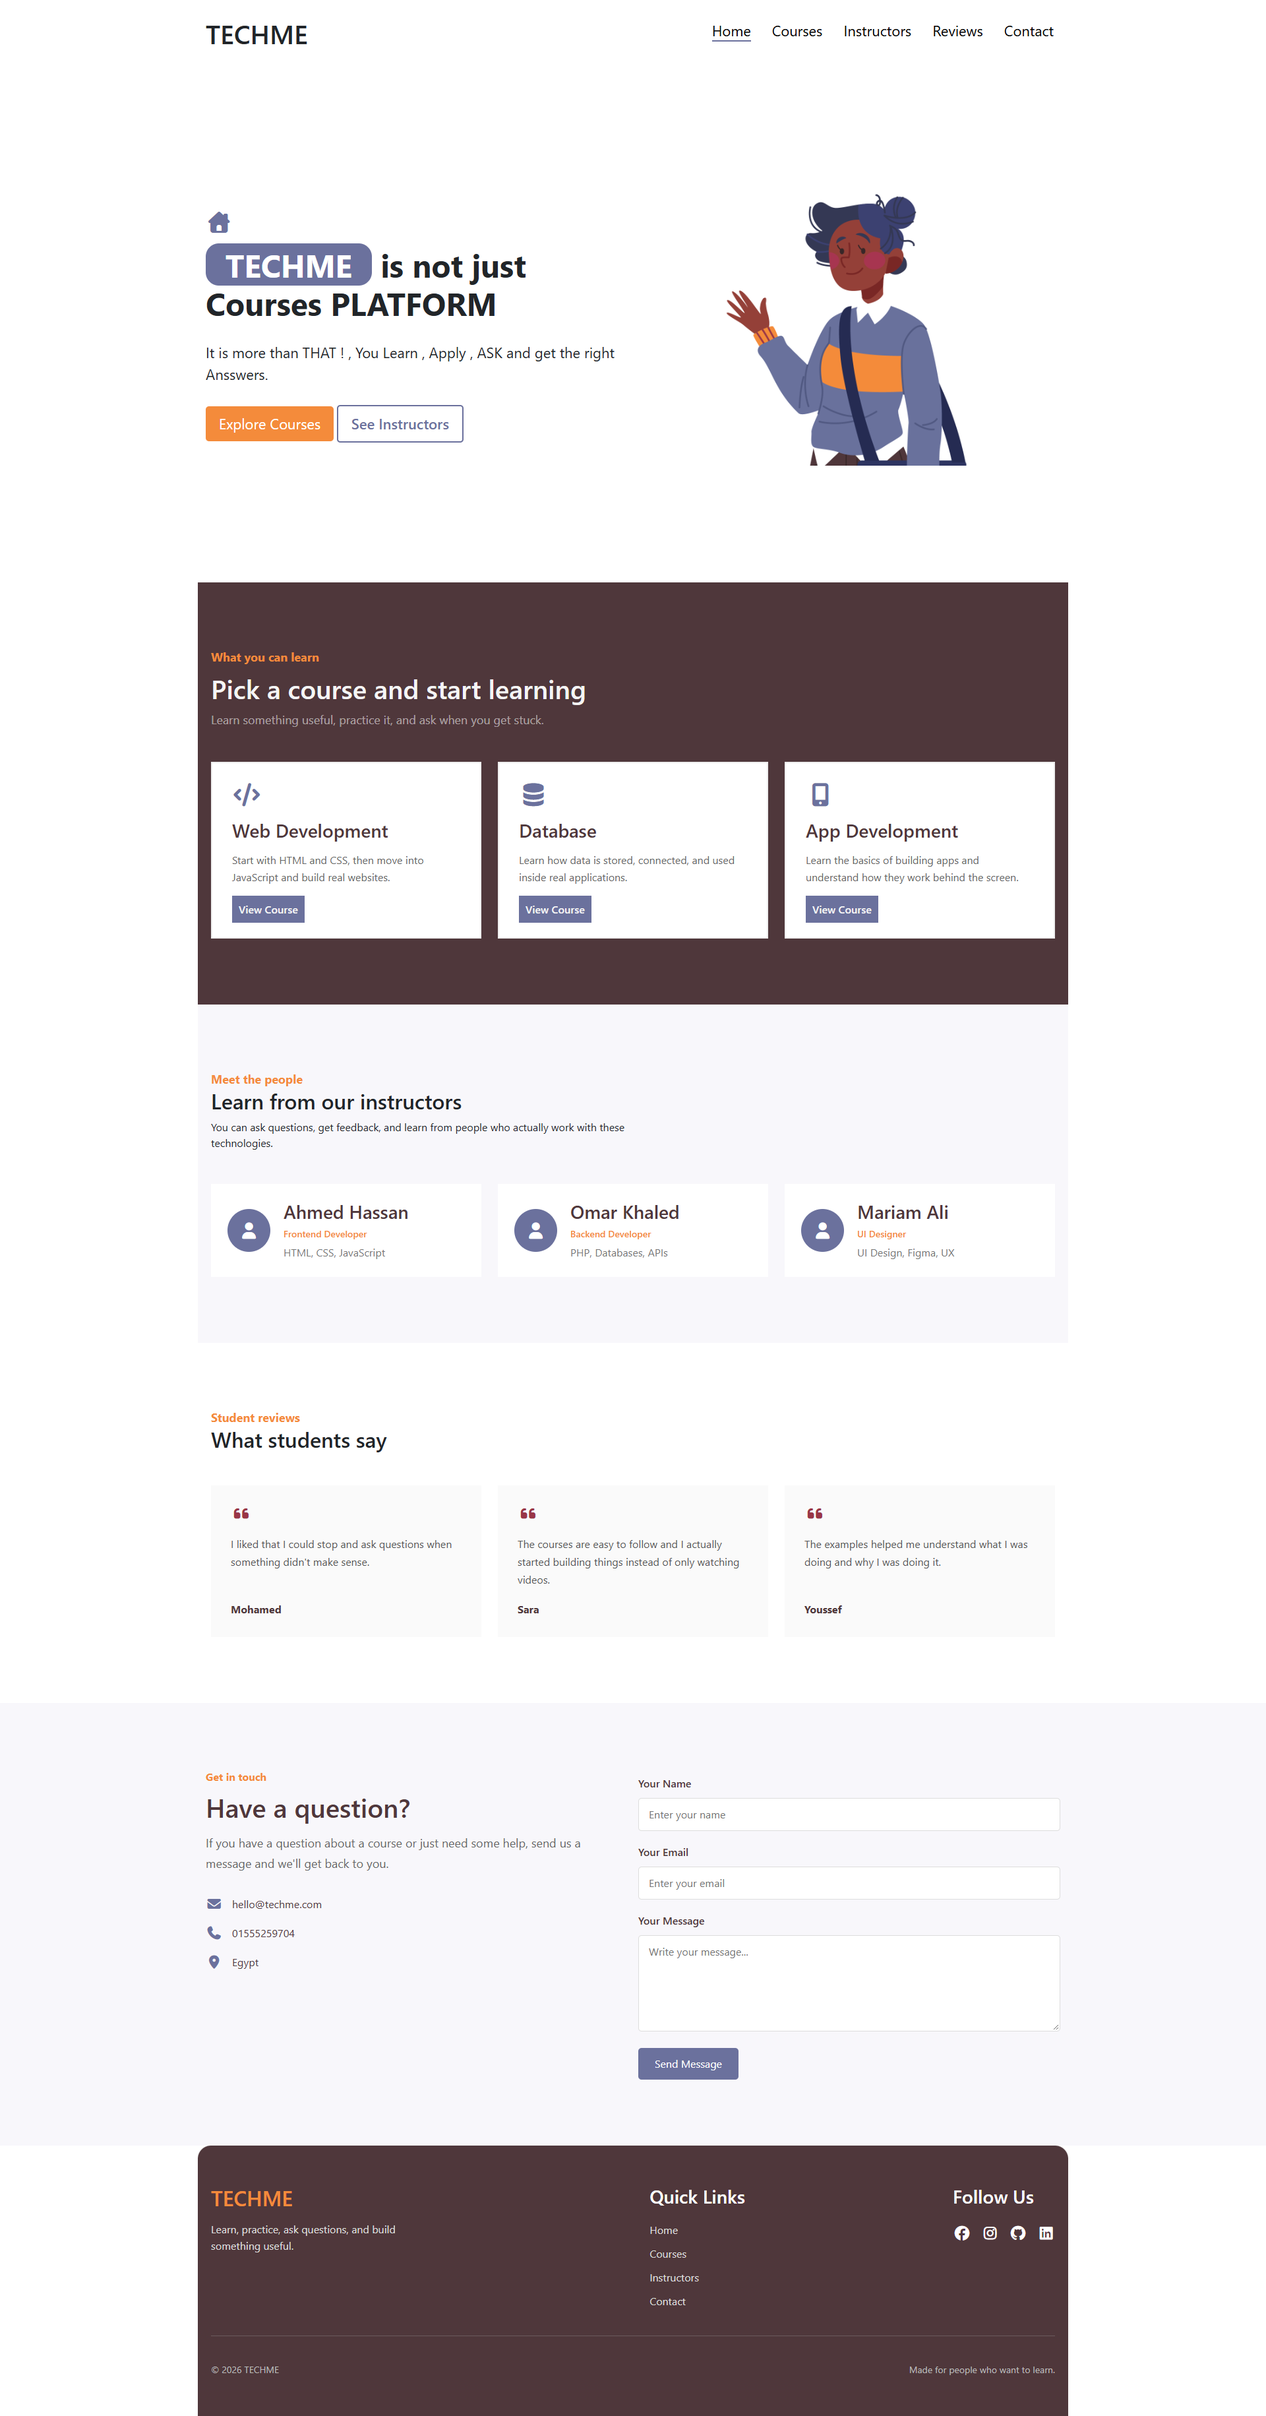
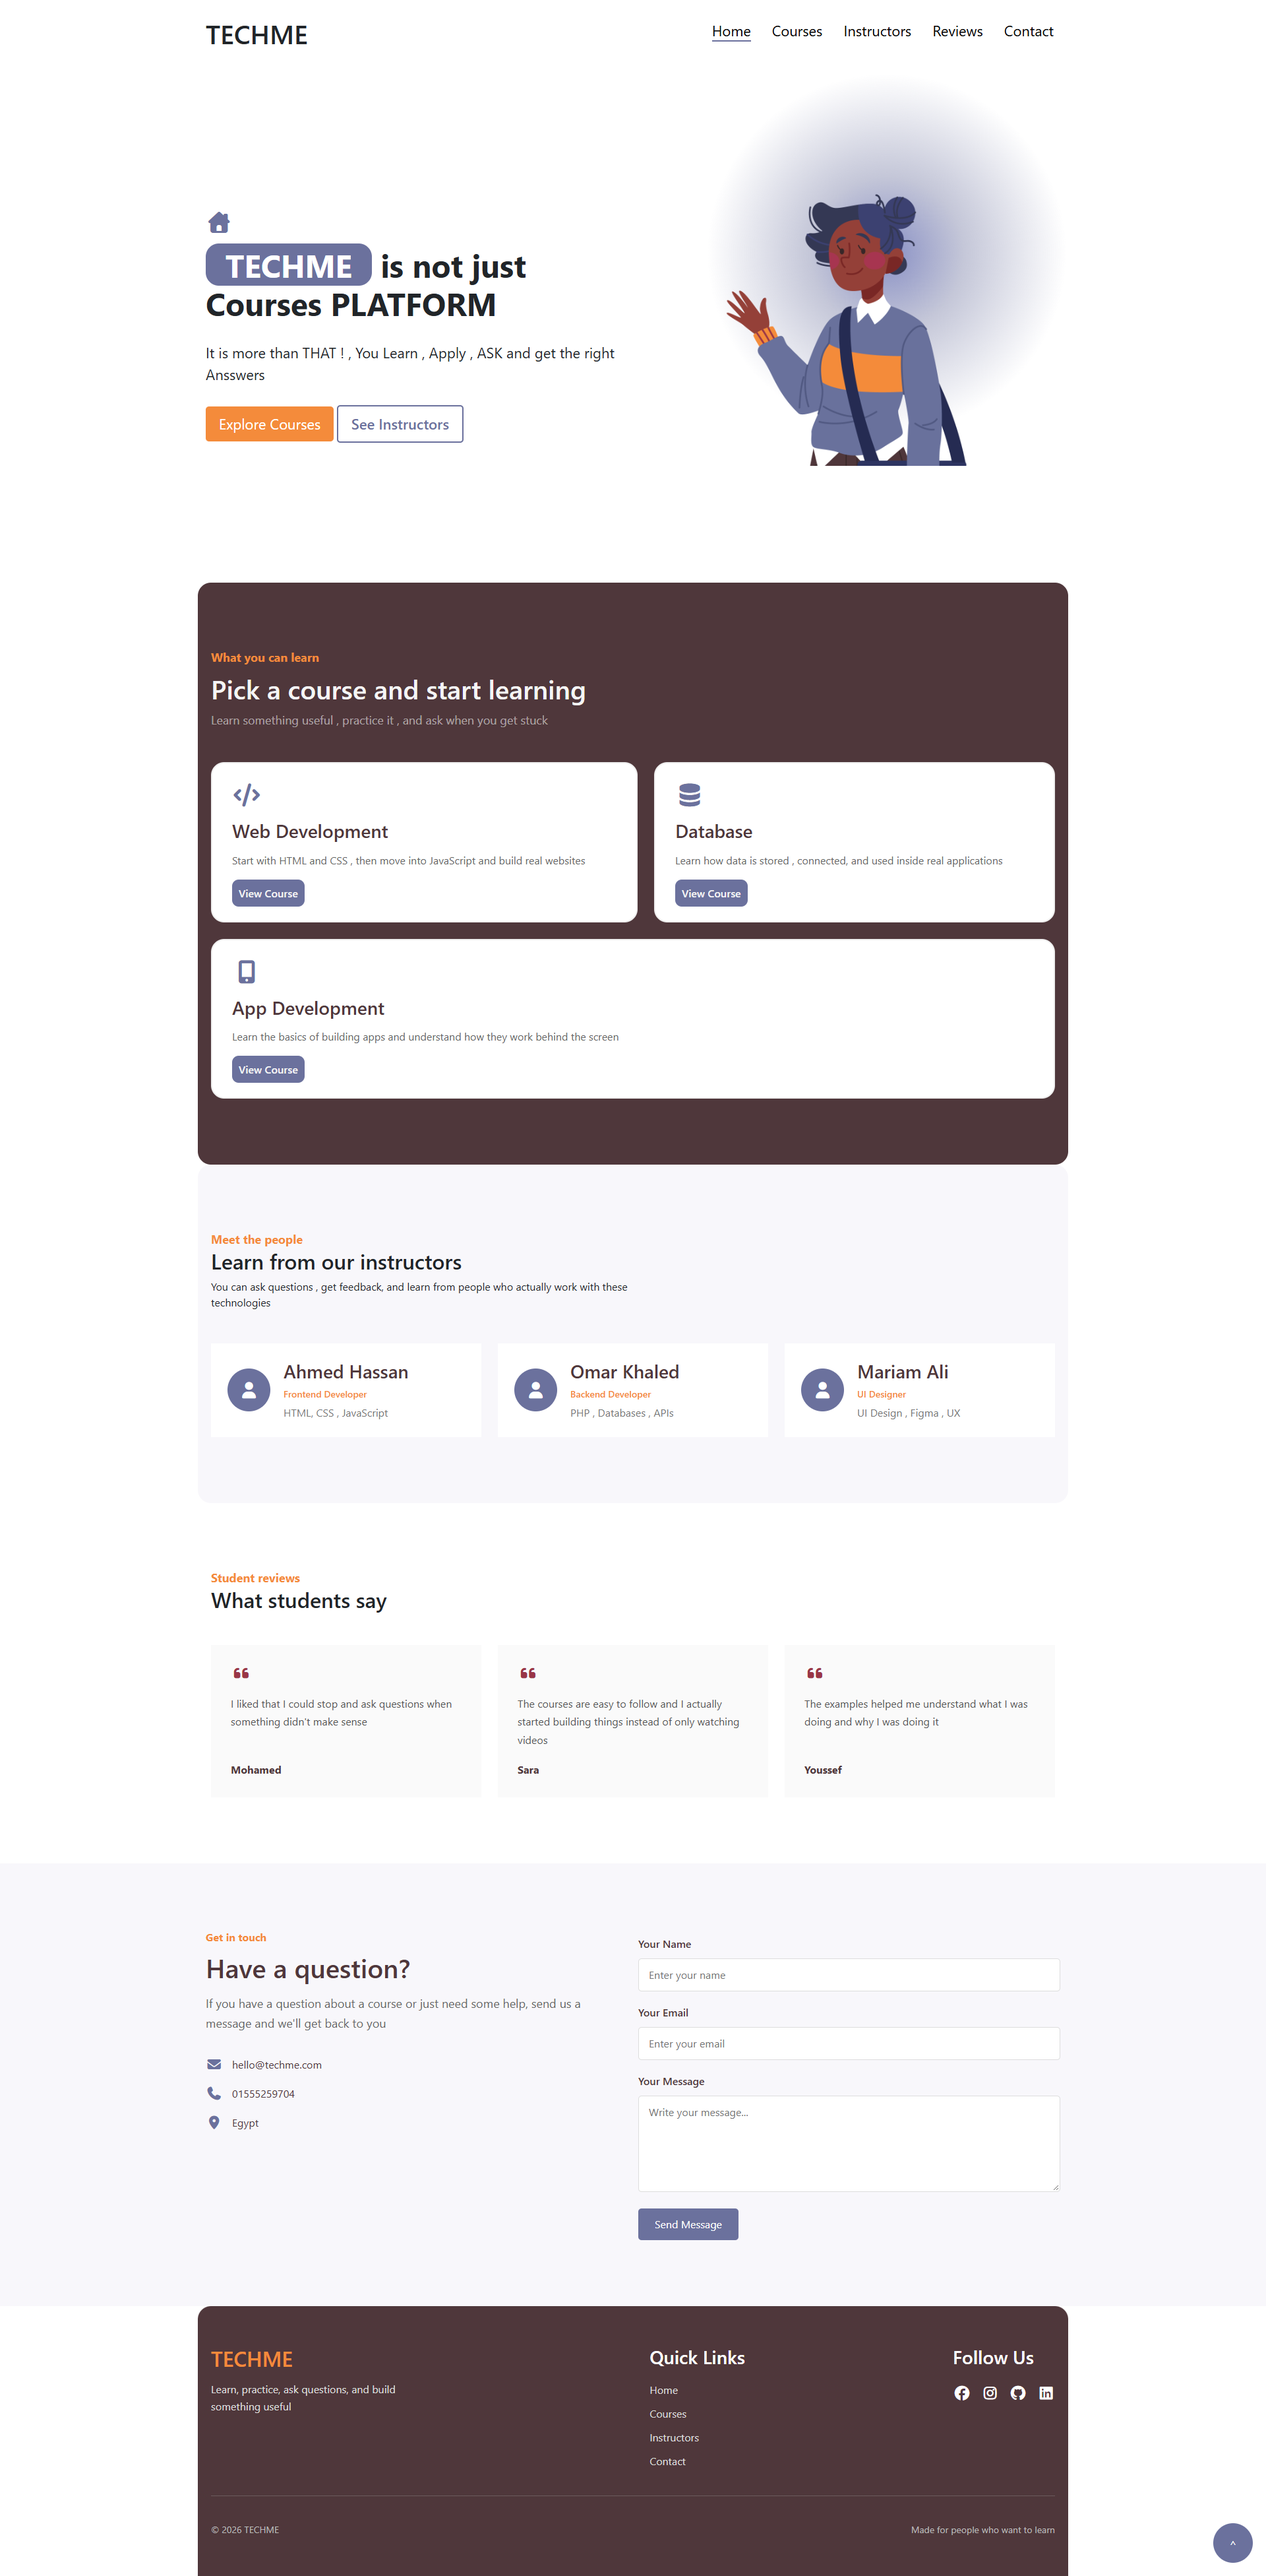
Day 10 , Learning Courses platform

diff --git a/day-10/index.html b/day-10/index.html
@@ -36,7 +36,7 @@
           <h2><span>TECHME</span> is not just Courses PLATFORM</h2>
           <p>
             It is more than THAT ! , You Learn , Apply , ASK and get the right
-            Ansswers.
+            Ansswers
           </p>
           <div class="buttons-container">
             <button>Explore Courses</button>
@@ -45,6 +45,9 @@
         </div>
         <div class="image-container">
           <img src="assets/images/student.png" />
+        </div>
+        <div class="gradients-container">
+          <div class="top-gradient"></div>
         </div>
       </main>
     </div>
@@ -55,7 +58,7 @@
           <span>What you can learn</span>
           <h2>Pick a course and start learning</h2>
           <p>
-            Learn something useful, practice it, and ask when you get stuck.
+            Learn something useful , practice it , and ask when you get stuck
           </p>
         </div>
 
@@ -64,8 +67,8 @@
             <i class="fa-solid fa-code"></i>
             <h3>Web Development</h3>
             <p>
-              Start with HTML and CSS, then move into JavaScript and build real
-              websites.
+              Start with HTML and CSS , then move into JavaScript and build real
+              websites
             </p>
             <a href="#">View Course</a>
           </article>
@@ -74,8 +77,8 @@
             <i class="fa-solid fa-database"></i>
             <h3>Database</h3>
             <p>
-              Learn how data is stored, connected, and used inside real
-              applications.
+              Learn how data is stored , connected, and used inside real
+              applications
             </p>
             <a href="#">View Course</a>
           </article>
@@ -85,7 +88,7 @@
             <h3>App Development</h3>
             <p>
               Learn the basics of building apps and understand how they work
-              behind the screen.
+              behind the screen
             </p>
             <a href="#">View Course</a>
           </article>
@@ -99,8 +102,8 @@
           <span>Meet the people</span>
           <h2>Learn from our instructors</h2>
           <p>
-            You can ask questions, get feedback, and learn from people who
-            actually work with these technologies.
+            You can ask questions , get feedback, and learn from people who
+            actually work with these technologies
           </p>
         </div>
 
@@ -112,7 +115,7 @@
             <div>
               <h3>Ahmed Hassan</h3>
               <span>Frontend Developer</span>
-              <p>HTML, CSS, JavaScript</p>
+              <p>HTML, CSS , JavaScript</p>
             </div>
           </article>
 
@@ -123,7 +126,7 @@
             <div>
               <h3>Omar Khaled</h3>
               <span>Backend Developer</span>
-              <p>PHP, Databases, APIs</p>
+              <p>PHP , Databases , APIs</p>
             </div>
           </article>
 
@@ -134,7 +137,7 @@
             <div>
               <h3>Mariam Ali</h3>
               <span>UI Designer</span>
-              <p>UI Design, Figma, UX</p>
+              <p>UI Design , Figma , UX</p>
             </div>
           </article>
         </div>
@@ -153,7 +156,7 @@
             <i class="fa-solid fa-quote-left"></i>
             <p>
               I liked that I could stop and ask questions when something didn't
-              make sense.
+              make sense
             </p>
             <strong>Mohamed</strong>
           </article>
@@ -162,7 +165,7 @@
             <i class="fa-solid fa-quote-left"></i>
             <p>
               The courses are easy to follow and I actually started building
-              things instead of only watching videos.
+              things instead of only watching videos
             </p>
             <strong>Sara</strong>
           </article>
@@ -171,7 +174,7 @@
             <i class="fa-solid fa-quote-left"></i>
             <p>
               The examples helped me understand what I was doing and why I was
-              doing it.
+              doing it
             </p>
             <strong>Youssef</strong>
           </article>
@@ -187,7 +190,7 @@
             <h2>Have a question?</h2>
             <p>
               If you have a question about a course or just need some help, send
-              us a message and we'll get back to you.
+              us a message and we'll get back to you
             </p>
 
             <div class="contact-details">
@@ -232,7 +235,7 @@
       <div class="footer-content">
         <div class="footer-brand">
           <h2>TECHME</h2>
-          <p>Learn, practice, ask questions, and build something useful.</p>
+          <p>Learn, practice, ask questions, and build something useful</p>
         </div>
 
         <div class="footer-links">
@@ -256,8 +259,10 @@
 
       <div class="footer-bottom">
         <span>&copy; 2026 TECHME</span>
-        <span>Made for people who want to learn.</span>
+        <span>Made for people who want to learn</span>
       </div>
     </footer>
+
+    <a class="scroll-to-top" href="#home">^</a>
   </body>
 </html>

diff --git a/day-10/css/style.css b/day-10/css/style.css
@@ -40,10 +40,30 @@ nav a {
   color: black;
   text-decoration: none;
   font-size: 22px;
+  position: relative;
+}
+
+nav a:not(.active)::before {
+  content: "";
+  width: 0;
+  height: 2px;
+  position: absolute;
+  bottom: -2px;
+  left: 0;
+  background-color: var(--dark-brown);
+  transition: 200ms;
+}
+
+nav a:not(.active):hover::before {
+  width: 100%;
 }
 
 nav a.active {
   border-bottom: var(--main-color) 2px solid;
+}
+
+.hero-section {
+  position: relative;
 }
 
 .hero-section main {
@@ -53,6 +73,7 @@ nav a.active {
   align-items: center;
   justify-content: space-between;
   overflow-x: hidden;
+  /* position: relative; */
 }
 
 main .text-content {
@@ -111,6 +132,16 @@ main .text-content h2 {
   width: 100%;
 }
 
+.gradients-container .top-gradient {
+  width: 550px;
+  height: 550px;
+  background: radial-gradient(circle, #888fc4 0%, #6b719d65 30%, #6b719d00 70%);
+  position: absolute;
+  right: 0;
+  top: 0;
+  z-index: -1;
+}
+
 .courses-section {
   background-color: var(--dark-brown);
 }
@@ -119,6 +150,7 @@ main .text-content h2 {
 .instructors-section,
 .reviews-section {
   padding: 100px 20px;
+  border-radius: 20px;
 }
 
 .section-title {
@@ -144,8 +176,12 @@ main .text-content h2 {
 }
 
 .courses-container {
-  display: flex;
+  display: grid;
   gap: 25px;
+
+  grid-template-areas:
+    "webdev database"
+    "mobile mobile";
 }
 
 .course-card {
@@ -154,6 +190,11 @@ main .text-content h2 {
   border: 2px solid #eee;
   /* border-radius: 15px; */
   background-color: white;
+  border-radius: 20px;
+}
+
+.course-card:nth-child(3) {
+  grid-area: mobile;
 }
 
 .course-card i {
@@ -179,6 +220,7 @@ main .text-content h2 {
   font-weight: 600;
   padding: 10px;
   background-color: var(--main-color);
+  border-radius: 10px;
 }
 
 .instructors-section {
@@ -424,6 +466,21 @@ footer {
   color: #bbb;
   font-size: 14px;
   padding: 40px 0 0 0;
+}
+
+.scroll-to-top {
+  position: fixed;
+  bottom: 20px;
+  right: 20px;
+  padding: 20px;
+  width: 60px;
+  height: 60px;
+  background: var(--main-color);
+  color: white;
+  border-radius: 50%;
+  text-align: center;
+  text-decoration: none;
+  cursor: pointer;
 }
 
 @media (max-width: 768px) {
